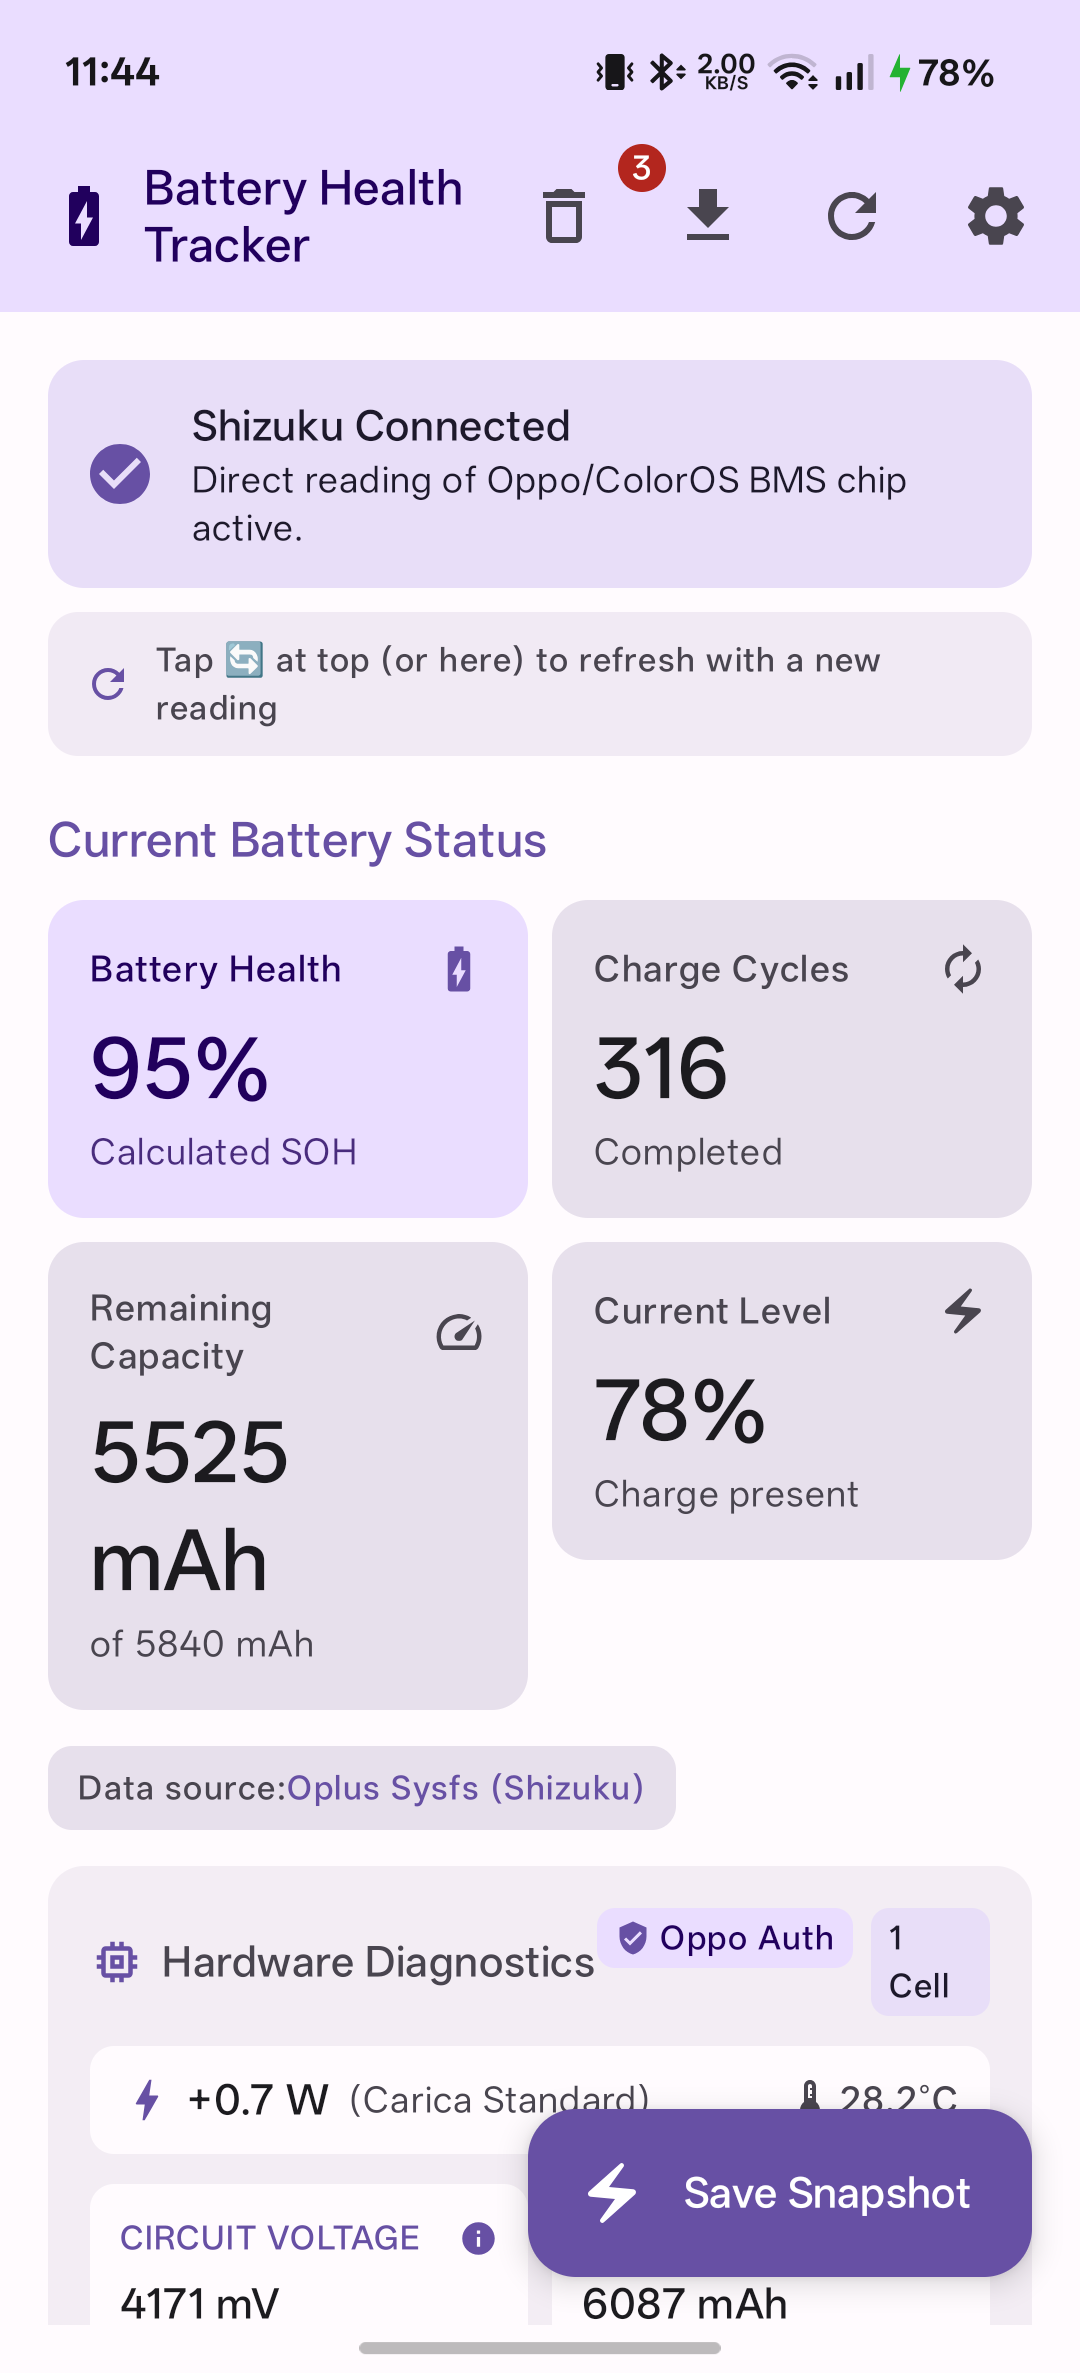
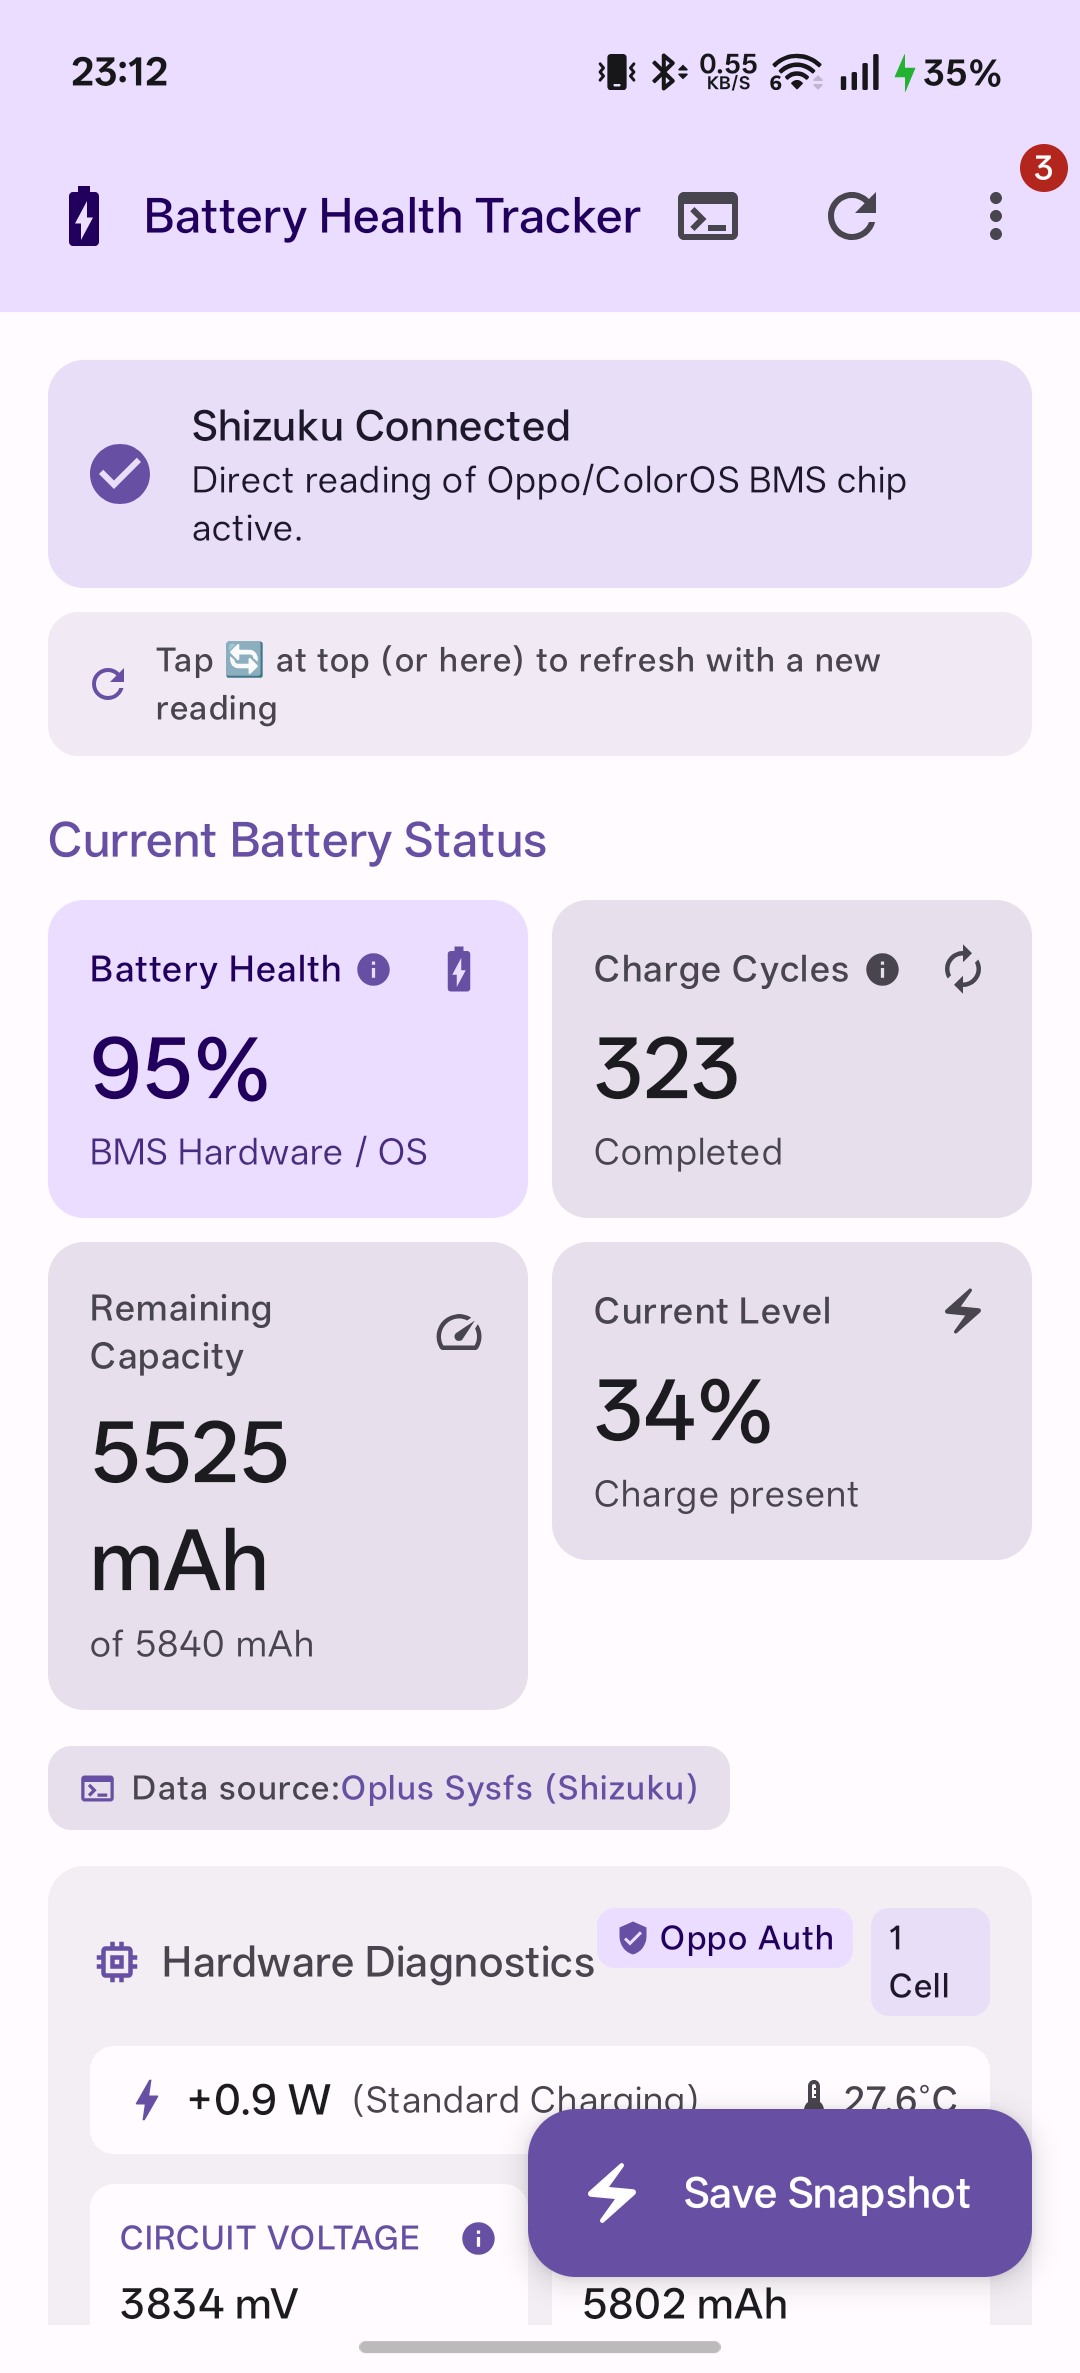
chore: release v1.7 with R8 optimization, CI/CD pipeline, and refreshed UI screenshots

diff --git a/app/src/main/java/com/fivestars/batterytracker/NotificationHelper.kt b/app/src/main/java/com/fivestars/batterytracker/NotificationHelper.kt
@@ -15,12 +15,7 @@ import java.util.Locale
 object NotificationHelper {
 
     const val CHANNEL_ID = "battery_sampling_channel"
-    private const val CHANNEL_NAME = "Monitoraggio Batteria"
-    private const val CHANNEL_DESC = "Notifiche per campionamento manuale e automatico dello stato della batteria"
-
     const val CHANNEL_OVERHEAT_ID = "battery_overheat_channel"
-    private const val CHANNEL_OVERHEAT_NAME = "Allarme Temperatura Batteria"
-    private const val CHANNEL_OVERHEAT_DESC = "Avvisi di sicurezza per surriscaldamento della batteria durante la ricarica rapida o uso intenso"
 
     private const val NOTIFICATION_ID = 1001
     private const val NOTIFICATION_OVERHEAT_ID = 1002
@@ -30,18 +25,18 @@ object NotificationHelper {
         if (Build.VERSION.SDK_INT >= Build.VERSION_CODES.O) {
             val samplingChannel = NotificationChannel(
                 CHANNEL_ID,
-                CHANNEL_NAME,
+                context.getString(R.string.notif_channel_sampling_name),
                 NotificationManager.IMPORTANCE_DEFAULT
             ).apply {
-                description = CHANNEL_DESC
+                description = context.getString(R.string.notif_channel_sampling_desc)
             }
 
             val overheatChannel = NotificationChannel(
                 CHANNEL_OVERHEAT_ID,
-                CHANNEL_OVERHEAT_NAME,
+                context.getString(R.string.notif_channel_overheat_name),
                 NotificationManager.IMPORTANCE_HIGH
             ).apply {
-                description = CHANNEL_OVERHEAT_DESC
+                description = context.getString(R.string.notif_channel_overheat_desc)
                 enableVibration(true)
             }
 
@@ -70,8 +65,9 @@ object NotificationHelper {
             PendingIntent.FLAG_UPDATE_CURRENT or PendingIntent.FLAG_IMMUTABLE
         )
 
-        val title = "⚠ Allarme Temperatura Batteria: ${String.format(Locale.US, "%.1f°C", tempCelsius)}"
-        val text = "La temperatura ha superato la soglia di sicurezza (42°C). Rimuovi la cover o scollega temporaneamente la ricarica SuperVOOC per preservare la salute della cella."
+        val formattedTemp = String.format(Locale.US, "%.1f°C", tempCelsius)
+        val title = context.getString(R.string.notif_overheat_title, formattedTemp)
+        val text = context.getString(R.string.notif_overheat_text)
 
         val notification = NotificationCompat.Builder(context, CHANNEL_OVERHEAT_ID)
             .setSmallIcon(R.drawable.ic_notification)
@@ -111,23 +107,24 @@ object NotificationHelper {
         )
 
         val title = when {
-            isFullChargeTrigger -> "Ricarica 100% Completata • Campionamento Eseguito"
-            isManual -> "Campionamento Manuale Eseguito"
-            else -> "Campionamento Automatico (24h)"
+            isFullChargeTrigger -> context.getString(R.string.notif_sampling_full_title)
+            isManual -> context.getString(R.string.notif_sampling_manual_title)
+            else -> context.getString(R.string.notif_sampling_auto_title)
         }
 
         val triggerReason = when {
-            isFullChargeTrigger -> "Campionamento automatico al distacco del caricatore con batteria al 100%"
-            isManual -> "Rilevazione manuale avviata tramite pulsante nell'app"
-            else -> "Rilevazione periodica automatica programmata (ogni 24h)"
+            isFullChargeTrigger -> context.getString(R.string.notif_sampling_full_reason)
+            isManual -> context.getString(R.string.notif_sampling_manual_reason)
+            else -> context.getString(R.string.notif_sampling_auto_reason)
         }
 
-        val healthStr = snapshot.healthPercentage?.let { "$it%" } ?: "N/D"
-        val cyclesStr = snapshot.cycleCount?.let { "$it" } ?: "N/D"
-        val capStr = snapshot.currentCapacityMah?.let { String.format(Locale.US, "%.0f mAh", it) } ?: "N/D"
+        val notAvailable = context.getString(R.string.not_available)
+        val healthStr = snapshot.healthPercentage?.let { "$it%" } ?: notAvailable
+        val cyclesStr = snapshot.cycleCount?.let { "$it" } ?: notAvailable
+        val capStr = snapshot.currentCapacityMah?.let { String.format(Locale.US, "%.0f mAh", it) } ?: notAvailable
 
-        val summaryText = "Salute: $healthStr | Cicli: $cyclesStr | $capStr"
-        val expandedText = "$triggerReason.\n\n• Salute SOH: $healthStr\n• Cicli di carica: $cyclesStr\n• Capacità residua: $capStr\n• Sorgente dati: ${snapshot.source}"
+        val summaryText = context.getString(R.string.notif_sampling_summary, healthStr, cyclesStr, capStr)
+        val expandedText = context.getString(R.string.notif_sampling_expanded, triggerReason, healthStr, cyclesStr, capStr, snapshot.source)
 
         val notifId = if (isFullChargeTrigger) NOTIFICATION_FULL_CHARGE_ID else NOTIFICATION_ID
 

diff --git a/app/src/main/java/com/fivestars/batterytracker/DateUtils.kt b/app/src/main/java/com/fivestars/batterytracker/DateUtils.kt
@@ -1,7 +1,41 @@
 package com.fivestars.batterytracker
 
 import java.text.SimpleDateFormat
+import java.util.Date
 import java.util.Locale
 
-internal val historyDateFormat = SimpleDateFormat("dd/MM/yyyy HH:mm", Locale.getDefault())
-internal val chartDateFormatter = SimpleDateFormat("dd/MM", Locale.getDefault())
+private val historyDateFormatLock = Any()
+private val chartDateFormatterLock = Any()
+
+private val internalHistoryDateFormat = SimpleDateFormat("dd/MM/yyyy HH:mm", Locale.getDefault())
+private val internalChartDateFormatter = SimpleDateFormat("dd/MM", Locale.getDefault())
+
+/**
+ * Thread-safe date formatting helpers for battery history and charts.
+ * Prevents concurrency issues in SimpleDateFormat when called from multiple Composables or Coroutines.
+ */
+fun formatHistoryDate(timestamp: Long): String {
+    return synchronized(historyDateFormatLock) {
+        internalHistoryDateFormat.format(Date(timestamp))
+    }
+}
+
+fun formatChartDate(timestamp: Long): String {
+    return synchronized(chartDateFormatterLock) {
+        internalChartDateFormatter.format(Date(timestamp))
+    }
+}
+
+internal object historyDateFormat {
+    fun format(date: Date): String = synchronized(historyDateFormatLock) {
+        internalHistoryDateFormat.format(date)
+    }
+    fun format(timestamp: Long): String = formatHistoryDate(timestamp)
+}
+
+internal object chartDateFormatter {
+    fun format(date: Date): String = synchronized(chartDateFormatterLock) {
+        internalChartDateFormatter.format(date)
+    }
+    fun format(timestamp: Long): String = formatChartDate(timestamp)
+}

diff --git a/app/src/main/java/com/fivestars/batterytracker/BatteryHealthTrendCard.kt b/app/src/main/java/com/fivestars/batterytracker/BatteryHealthTrendCard.kt
@@ -11,10 +11,10 @@ import androidx.compose.foundation.rememberScrollState
 import androidx.compose.foundation.shape.RoundedCornerShape
 import androidx.compose.foundation.verticalScroll
 import androidx.compose.material.icons.Icons
+import androidx.compose.material.icons.automirrored.filled.ShowChart
 import androidx.compose.material.icons.filled.CalendarMonth
 import androidx.compose.material.icons.filled.Close
 import androidx.compose.material.icons.filled.Info
-import androidx.compose.material.icons.filled.ShowChart
 import androidx.compose.material.icons.filled.Speed
 import androidx.compose.material3.*
 import androidx.compose.runtime.*
@@ -133,7 +133,7 @@ fun BatteryHealthTrendCard(
                 verticalAlignment = Alignment.CenterVertically
             ) {
                 Icon(
-                    imageVector = Icons.Default.ShowChart,
+                    imageVector = Icons.AutoMirrored.Filled.ShowChart,
                     contentDescription = null,
                     tint = MaterialTheme.colorScheme.primary,
                     modifier = Modifier.size(18.dp)

diff --git a/app/src/main/java/com/fivestars/batterytracker/SettingsScreen.kt b/app/src/main/java/com/fivestars/batterytracker/SettingsScreen.kt
@@ -181,7 +181,6 @@ fun SettingsScreen(
         EditCapacityDialog(
             initialMah = activeMah,
             initialPresetLabel = configState.presetLabel,
-            isAuto = configState.isAutoDetection,
             onDismiss = { showEditDialog = false },
             onSave = { newMah, label ->
                 viewModel.setCustomRatedCapacity(newMah, label)
@@ -671,7 +670,6 @@ private fun InfoRow(label: String, value: String) {
 fun EditCapacityDialog(
     initialMah: Double,
     initialPresetLabel: String,
-    isAuto: Boolean,
     onDismiss: () -> Unit,
     onSave: (Double, String) -> Unit,
     onResetAuto: () -> Unit

diff --git a/README.md b/README.md
@@ -15,8 +15,8 @@
   <img src="https://img.shields.io/badge/Display-120%20Hz%20Fluid-brightgreen?style=flat-square" alt="120 Hz Fluid" />
   <img src="https://img.shields.io/badge/Theme-AMOLED%20Pure%20Black-black?style=flat-square" alt="AMOLED Pure Black" />
   <img src="https://img.shields.io/badge/License-Apache%202.0-orange?style=flat-square" alt="License" />
-  <img src="https://img.shields.io/badge/PRs-Welcome-brightgreen?style=flat-square" alt="PRs Welcome" />
-  <img src="https://img.shields.io/github/downloads/FrancescoMin/batteryhealthtracker/total")
+  <a href="https://github.com/FrancescoMin/batteryhealthtracker/actions/workflows/android.yml"><img src="https://img.shields.io/github/actions/workflow/status/FrancescoMin/batteryhealthtracker/android.yml?branch=main&style=flat-square&logo=githubactions" alt="Build Status" /></a>
+  <a href="https://github.com/FrancescoMin/batteryhealthtracker/releases"><img src="https://img.shields.io/github/downloads/FrancescoMin/batteryhealthtracker/total?style=flat-square" alt="GitHub Downloads" /></a>
 </p>
 
 ---
@@ -31,7 +31,7 @@ This delivers accurate, real-time electrochemical diagnostic data: true State of
 
 > [!NOTE]
 > **🚀 Repository Development Status / Stato di Sviluppo della Repository:**  
-> The codebase in the `main` branch may be ahead of the latest tagged GitHub Release (`BatteryHealthTracker-v1.6.apk`). New features, hardware presets, and optimizations currently undergoing testing in the repository will be bundled and published in future release APKs.  
+> The codebase in the `main` branch may be ahead of the latest tagged GitHub Release (`BatteryHealthTracker-v1.7.apk`). New features, hardware presets, and optimizations currently undergoing testing in the repository will be bundled and published in future release APKs.  
 > *Il codice presente nella repository (`main`) potrebbe risultare più avanzato rispetto all'ultima release ufficiale scaricabile, poiché alcune nuove funzioni o migliorie sono ancora in fase di testing e confluiranno nelle release successive.*
 
 ---
@@ -51,13 +51,23 @@ This delivers accurate, real-time electrochemical diagnostic data: true State of
   </tr>
   <tr>
     <td align="center" width="33%"><b>Health Trend & Projection</b></td>
+    <td align="center" width="33%"><b>Diagnostic Console</b></td>
     <td align="center" width="33%"><b>Device Presets & Rated mAh</b></td>
-    <td align="center" width="33%"><b>Theme Settings</b></td>
   </tr>
   <tr>
     <td><img src="docs/screenshots/health_trend_chart.png" width="100%" alt="Health Trend Chart" /></td>
+    <td><img src="docs/screenshots/diagnostic_console.png" width="100%" alt="Diagnostic Console" /></td>
     <td><img src="docs/screenshots/device_preset_dialog.png" width="100%" alt="Device Presets Dialog" /></td>
+  </tr>
+  <tr>
+    <td align="center" width="33%"><b>Settings & Updates</b></td>
+    <td align="center" width="33%"><b>Theme Settings</b></td>
+    <td align="center" width="33%"><b>Trash & Snapshot Bin</b></td>
+  </tr>
+  <tr>
+    <td><img src="docs/screenshots/settings_screen.png" width="100%" alt="Settings Screen" /></td>
     <td><img src="docs/screenshots/theme_selection_dialog.png" width="100%" alt="Theme Dialog" /></td>
+    <td><img src="docs/screenshots/trash_bin.png" width="100%" alt="Trash Bin" /></td>
   </tr>
 </table>
 
@@ -210,7 +220,7 @@ flowchart TD
 2. **Shizuku:** Installed from [Google Play](https://play.google.com/store/apps/details?id=moe.shizuku.privileged.api) or [GitHub Releases](https://github.com/RikkaApps/Shizuku/releases) and running via **Wireless Debugging** or **Root**.
 
 ### App Setup
-1. Download and install `BatteryHealthTracker-v1.6.apk` from [Releases](https://github.com/FrancescoMin/batteryhealthtracker/releases).
+1. Download and install `BatteryHealthTracker-v1.7.apk` from [Releases](https://github.com/FrancescoMin/batteryhealthtracker/releases).
 2. Open the app and grant the **Notification Permission** (required for background snapshot receipts and > 42°C overheat alerts).
 3. Tap **"Authorize Shizuku"** and allow access when prompted.
 4. Telemetry, health metrics, and hardware registers will populate immediately!
